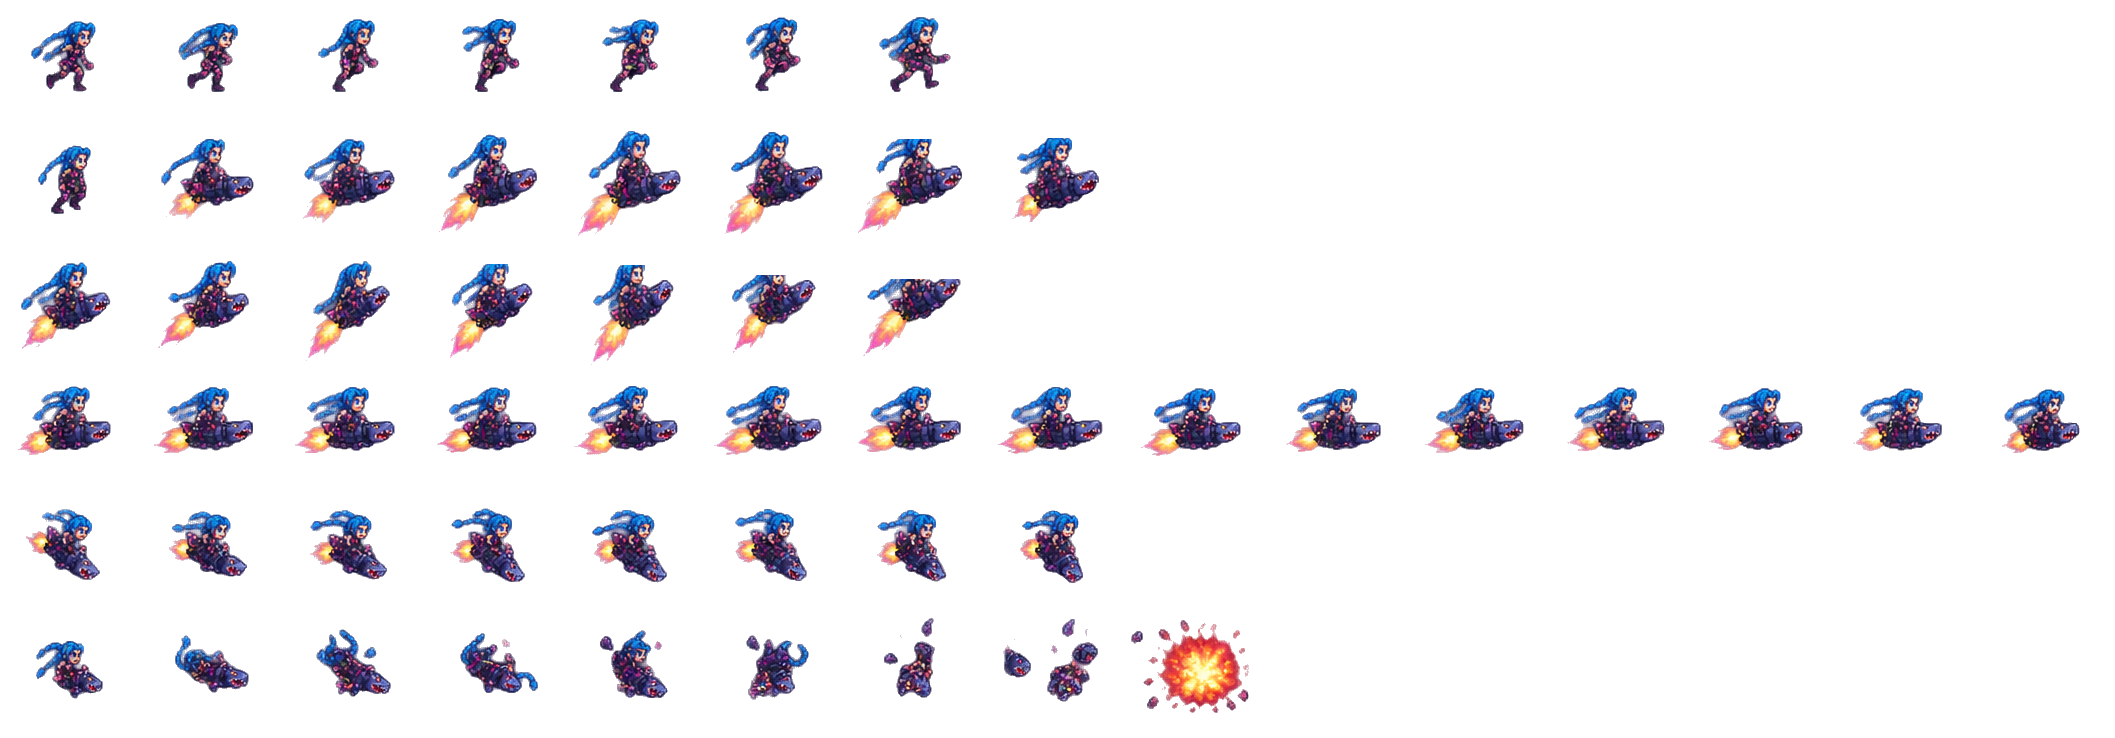
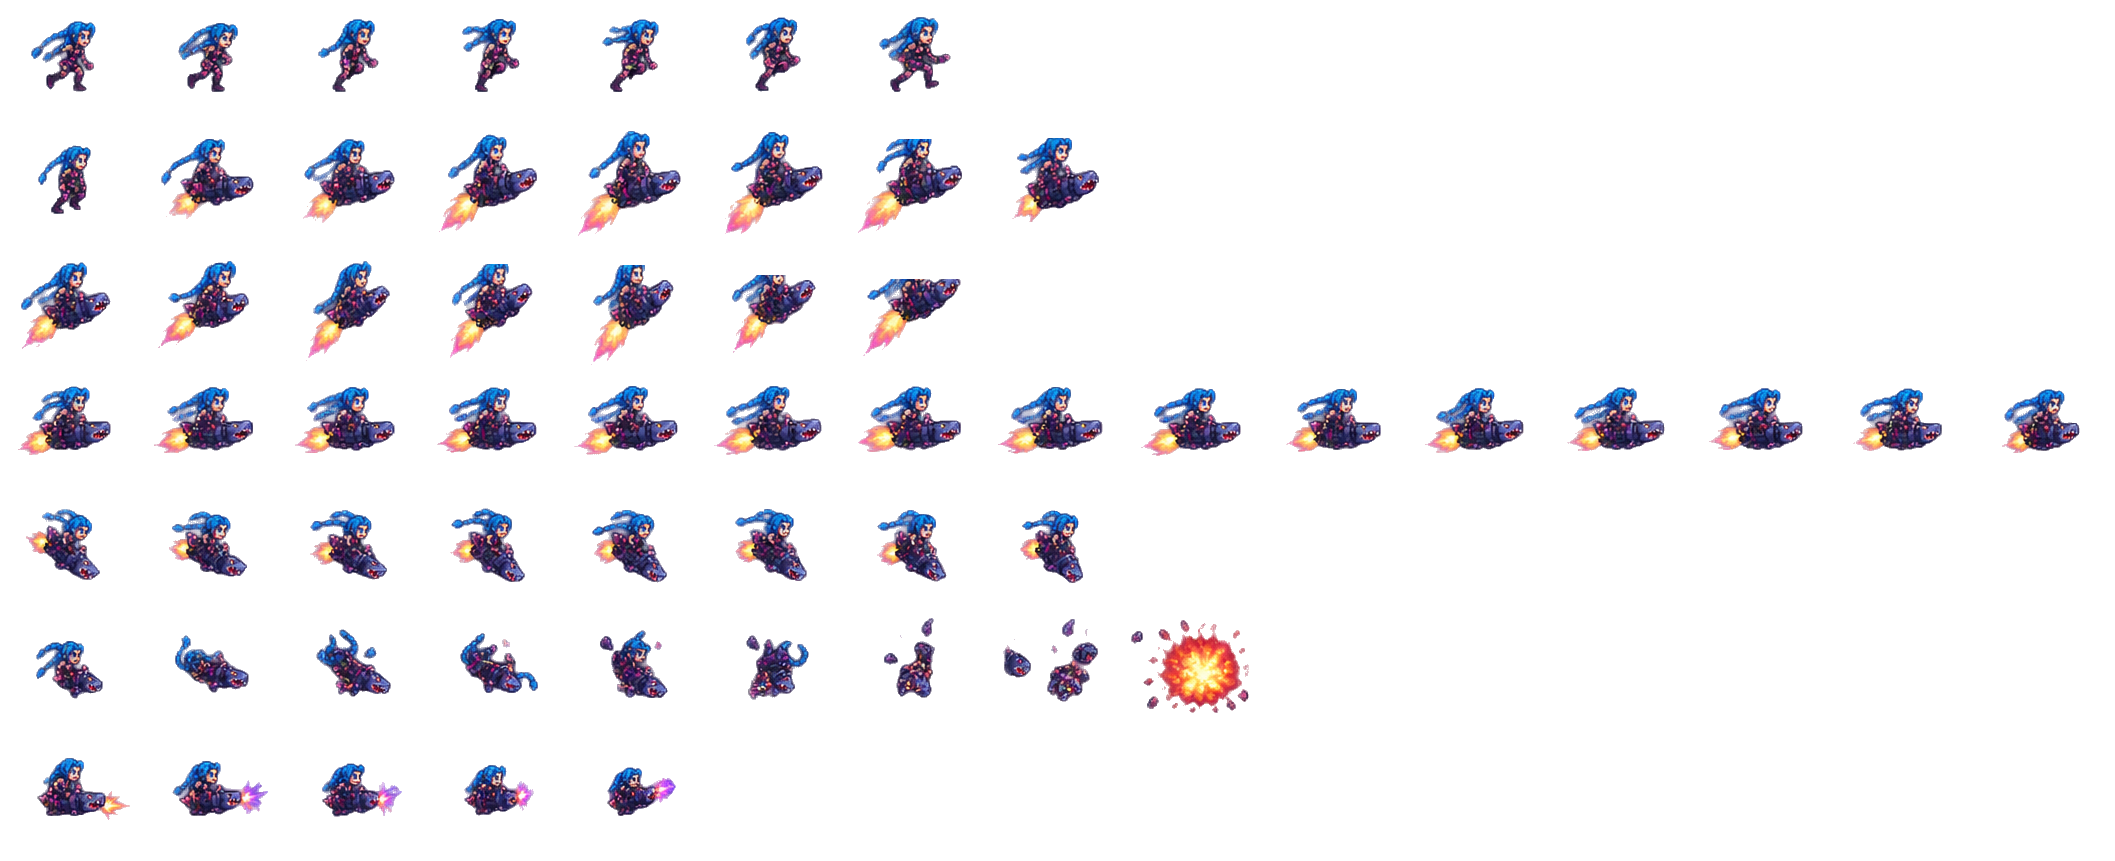
Slice the attack animations and draw the security drone
slice_sheets.py takes named animation specs, can attach effects that sit
ahead of the body (muzzle flash, blade arc) and force a cut between frames
that touch. Jinx gets her cannon burst, Mikasa her slash. draw_drone.py
draws the Arasaka drone for the upcoming CYBERPSYCHO mode.

diff --git a/tools/slice_sheets.py b/tools/slice_sheets.py
@@ -23,37 +23,53 @@ MERGE_GAP = 2       # body columns closer than this belong to the same frame
 MIN_WIDTH = 30      # thinner bodies are debris, not frames
 PAD = 4
 
-# name: (source sheet, portrait box or None for the head of the first run frame,
-#        {animation: (region, fps, ground, mode[, frame indices])})
-# mode is "loop", "once" (holds the last frame) or "hide" (vanishes after the last frame)
+
+def animation(region, fps, ground=False, mode="loop", frames=None, effects_ahead=False, splits=()):
+    """One animation of a sheet.
+
+    region:         box (x0, y0, x1, y1) holding the frames, labels left out
+    ground:         feet on the floor (run) rather than flying
+    mode:           "loop", "once" (holds the last frame) or "hide" (vanishes after the last frame)
+    frames:         indices to keep, all by default
+    effects_ahead:  loose effects (muzzle flash, blade arc) belong to the body on their left;
+                    by default they are trails and belong to the body on their right
+    splits:         sheet x positions where touching frames must be cut apart
+    """
+    return {"region": region, "fps": fps, "ground": ground, "mode": mode,
+            "frames": frames, "effects_ahead": effects_ahead, "splits": splits}
+
+
+# name: (source sheet, portrait box or None for the head of the first run frame, {animation: animation(...)})
 CHARACTERS = {
     "johny": ("sources/johny.png", None, {
-        "run":   ((0, 177, 500, 330), 10, True, "loop"),
-        "rise":  ((0, 337, 500, 494), 12, False, "loop"),
-        "hover": ((0, 337, 500, 494), 12, False, "loop"),
-        "fall":  ((0, 177, 500, 330), 1, False, "loop", [1]),
+        "run":   animation((0, 177, 500, 330), 10, ground=True),
+        "rise":  animation((0, 337, 500, 494), 12),
+        "hover": animation((0, 337, 500, 494), 12),
+        "fall":  animation((0, 177, 500, 330), 1, frames=[1]),
     }),
     "david": ("sources/david.png", None, {
-        "run":   ((0, 184, 500, 343), 10, True, "loop"),
-        "rise":  ((0, 349, 500, 497), 12, False, "loop"),
-        "hover": ((0, 349, 500, 497), 12, False, "loop"),
-        "fall":  ((0, 184, 500, 343), 1, False, "loop", [1]),
+        "run":   animation((0, 184, 500, 343), 10, ground=True),
+        "rise":  animation((0, 349, 500, 497), 12),
+        "hover": animation((0, 349, 500, 497), 12),
+        "fall":  animation((0, 184, 500, 343), 1, frames=[1]),
     }),
     "jinx": ("sources/jinx.png", (1105, 929, 1185, 1005), {
-        "run":     ((665, 42, 1200, 140), 12, True, "loop"),
-        "takeoff": ((665, 185, 1536, 299), 16, False, "once"),
-        "rise":    ((0, 476, 765, 592), 12, False, "loop"),
-        "hover":   ((0, 345, 1536, 420), 14, False, "loop"),
-        "fall":    ((770, 476, 1536, 592), 12, False, "loop"),
-        "death":   ((680, 779, 1480, 874), 10, False, "hide"),
+        "run":     animation((665, 42, 1200, 140), 12, ground=True),
+        "takeoff": animation((665, 185, 1536, 299), 16, mode="once"),
+        "rise":    animation((0, 476, 765, 592), 12),
+        "hover":   animation((0, 345, 1536, 420), 14),
+        "fall":    animation((770, 476, 1536, 592), 12),
+        "death":   animation((680, 779, 1480, 874), 10, mode="hide"),
+        "attack":  animation((780, 640, 1255, 732), 16, mode="once", effects_ahead=True),
     }),
     "mikasa": ("sources/mikasa.png", (1140, 925, 1212, 1000), {
-        "run":     ((655, 40, 1240, 144), 12, True, "loop"),
-        "takeoff": ((0, 182, 640, 308), 16, False, "once"),
-        "rise":    ((650, 185, 1536, 308), 12, False, "loop"),
-        "hover":   ((0, 351, 860, 442), 12, False, "loop"),
-        "fall":    ((870, 346, 1536, 472), 12, False, "loop"),
-        "death":   ((750, 795, 1536, 877), 10, False, "once"),
+        "run":     animation((655, 40, 1240, 144), 12, ground=True),
+        "takeoff": animation((0, 182, 640, 308), 16, mode="once"),
+        "rise":    animation((650, 185, 1536, 308), 12),
+        "hover":   animation((0, 351, 860, 442), 12),
+        "fall":    animation((870, 346, 1536, 472), 12),
+        "death":   animation((750, 795, 1536, 877), 10, mode="once"),
+        "attack":  animation((795, 505, 1536, 615), 16, mode="once", effects_ahead=True, splits=[1168]),
     }),
 }
 
@@ -90,12 +106,12 @@ DISPLAY_NAMES = {"johny": "JOHNNY"}
 EXHAUST = {"mikasa": "0 240 255", "jinx": "255 40 200"}
 
 
-def split_frames(pixels, region):
+def split_frames(pixels, region, effects_ahead=False, splits=()):
     """Frames in region, left to right, as (box, mask) in sheet coordinates.
 
     Trails link neighbouring frames, so frames are found from their bodies. Every blob
-    then goes to the body it overlaps, or to the next body on its right (trails point
-    backwards); the mask keeps a neighbour's trail out of the frame.
+    then goes to the body it overlaps, or else to the next body on its right (trails point
+    backwards) or on its left (effects_ahead); the mask keeps a neighbour's trail out.
     """
     x0, y0, x1, y1 = region
     area = pixels[y0:y1, x0:x1]
@@ -111,6 +127,10 @@ def split_frames(pixels, region):
             else:
                 bodies.append((start, x))
             start = None
+    for split in splits:
+        cut = split - x0
+        bodies = [part for b in bodies
+                  for part in ([(b[0], cut), (cut, b[1])] if b[0] < cut < b[1] else [b])]
     bodies = [b for b in bodies if b[1] - b[0] >= MIN_WIDTH]
 
     labels, count = label_blobs(area[..., 3] > ALPHA)
@@ -120,6 +140,9 @@ def split_frames(pixels, region):
         overlaps = [max(0, min(b[1], xs[-1] + 1) - max(b[0], xs[0])) for b in bodies]
         if max(overlaps) > 0:
             owner[blob] = int(np.argmax(overlaps))
+        elif effects_ahead:
+            left = [i for i, b in enumerate(bodies) if b[1] <= xs[0]]
+            owner[blob] = left[-1] if left else 0
         else:
             right = [i for i, b in enumerate(bodies) if b[0] >= xs[-1]]
             owner[blob] = right[0] if right else len(bodies) - 1
@@ -155,8 +178,9 @@ def slice_character(name, sheet_name, portrait_box, animations, debug_dir):
 
     frames = {}
     for anim, spec in animations.items():
-        found = [crop_frame(sheet, box, mask) for box, mask in split_frames(pixels, spec[0])]
-        frames[anim] = [found[i] for i in spec[4]] if len(spec) > 4 else found
+        found = [crop_frame(sheet, box, mask)
+                 for box, mask in split_frames(pixels, spec["region"], spec["effects_ahead"], spec["splits"])]
+        frames[anim] = [found[i] for i in spec["frames"]] if spec["frames"] else found
 
     # Body height: the tallest running frame, the game scales it to the player's hitbox
     body = max(f.height for f in frames["run"])
@@ -168,7 +192,7 @@ def slice_character(name, sheet_name, portrait_box, animations, debug_dir):
         for f in frames[anim]:
             cx, cy = body_centre(f)
             # anchor: x of the body centre, y of the feet (ground) or the body centre (air)
-            ay = f.height if spec[2] else cy + body / 2
+            ay = f.height if spec["ground"] else cy + body / 2
             placed.setdefault(anim, []).append((f, cx, ay))
             half_w = max(half_w, cx, f.width - cx)
             top = max(top, ay)
@@ -196,7 +220,7 @@ def slice_character(name, sheet_name, portrait_box, animations, debug_dir):
     if name in EXHAUST:
         lines.append(f"exhaust {EXHAUST[name]}")
     for row, (anim, spec) in enumerate(animations.items()):
-        lines.append(f"{anim} {row} {len(frames[anim])} {spec[1]} {spec[3]}")
+        lines.append(f"{anim} {row} {len(frames[anim])} {spec['fps']} {spec['mode']}")
     (out / "meta.txt").write_text("\n".join(lines) + "\n")
     print(f"{name}: cell {cell_w}x{cell_h}, body {body}px,",
           ", ".join(f"{a} {len(v)}" for a, v in frames.items()))
@@ -205,8 +229,8 @@ def slice_character(name, sheet_name, portrait_box, animations, debug_dir):
         overlay = sheet.copy()
         draw = ImageDraw.Draw(overlay)
         for anim, spec in animations.items():
-            draw.rectangle(spec[0], outline=(255, 255, 0, 255))
-            for box, _ in split_frames(pixels, spec[0]):
+            draw.rectangle(spec["region"], outline=(255, 255, 0, 255))
+            for box, _ in split_frames(pixels, spec["region"], spec["effects_ahead"], spec["splits"]):
                 draw.rectangle(box, outline=(255, 0, 60, 255))
         overlay.save(Path(debug_dir) / f"{name}_regions.png")
         preview = Image.new("RGBA", grid.size, (40, 36, 56, 255))

diff --git a/tools/draw_drone.py b/tools/draw_drone.py
@@ -1,0 +1,74 @@
+#!/usr/bin/env python3
+"""Draws the Arasaka security drone of the CYBERPSYCHO mode, pixel by pixel.
+
+Writes assets/drone/drone.png: 4 frames of 32x24 side by side. Rotors spin,
+the red eye sweeps left and right, the thruster flickers. The game scales it
+up without smoothing.
+
+Usage: python3 tools/draw_drone.py
+"""
+
+from pathlib import Path
+
+from PIL import Image
+
+OUT = Path(__file__).resolve().parent.parent / "assets" / "drone" / "drone.png"
+WIDTH, HEIGHT, FRAMES = 32, 24, 4
+
+CLEAR = (0, 0, 0, 0)
+OUTLINE = (14, 12, 22, 255)
+HULL = (48, 44, 66, 255)
+HULL_LIGHT = (92, 88, 120, 255)
+ARASAKA_RED = (220, 20, 50, 255)
+EYE = (255, 40, 70, 255)
+EYE_DIM = (120, 0, 30, 255)
+ROTOR = (150, 150, 175, 255)
+ROTOR_BLUR = (0, 150, 180, 255)
+THRUST = (0, 240, 255, 255)
+WHITE = (255, 255, 255, 255)
+
+
+def rect(pixels, x0, y0, x1, y1, color):
+    for x in range(x0, x1 + 1):
+        for y in range(y0, y1 + 1):
+            pixels[x, y] = color
+
+
+def draw_frame(index):
+    image = Image.new("RGBA", (WIDTH, HEIGHT), CLEAR)
+    px = image.load()
+
+    # Arms and spinning rotors: the blades shrink and blur as they turn
+    rect(px, 3, 8, 28, 9, OUTLINE)
+    rect(px, 4, 8, 27, 8, HULL)
+    blade = [5, 3, 1, 3][index]
+    for hub in (5, 26):
+        rect(px, hub - blade, 5, hub + blade, 5, ROTOR if index % 2 == 0 else ROTOR_BLUR)
+        rect(px, hub, 6, hub, 7, OUTLINE)
+
+    # Hull, with the Arasaka red stripe
+    rect(px, 9, 9, 22, 18, OUTLINE)
+    rect(px, 10, 10, 21, 17, HULL)
+    rect(px, 10, 10, 21, 11, HULL_LIGHT)
+    rect(px, 10, 15, 21, 15, ARASAKA_RED)
+
+    # Eye sweeping left and right
+    eye_x = 13 + [0, 1, 2, 1][index]
+    rect(px, 12, 12, 19, 13, OUTLINE)
+    rect(px, eye_x, 12, eye_x + 1, 13, EYE if index != 2 else EYE_DIM)
+    px[eye_x, 12] = WHITE
+
+    # Thruster
+    rect(px, 14, 19, 17, 19, OUTLINE)
+    rect(px, 15, 20, 16, 20 + index % 2, THRUST)
+    px[15, 20] = WHITE
+    return image
+
+
+if __name__ == "__main__":
+    sheet = Image.new("RGBA", (WIDTH * FRAMES, HEIGHT), CLEAR)
+    for i in range(FRAMES):
+        sheet.paste(draw_frame(i), (i * WIDTH, 0))
+    OUT.parent.mkdir(exist_ok=True)
+    sheet.save(OUT)
+    print(f"Drew {OUT.relative_to(OUT.parents[2])}")
